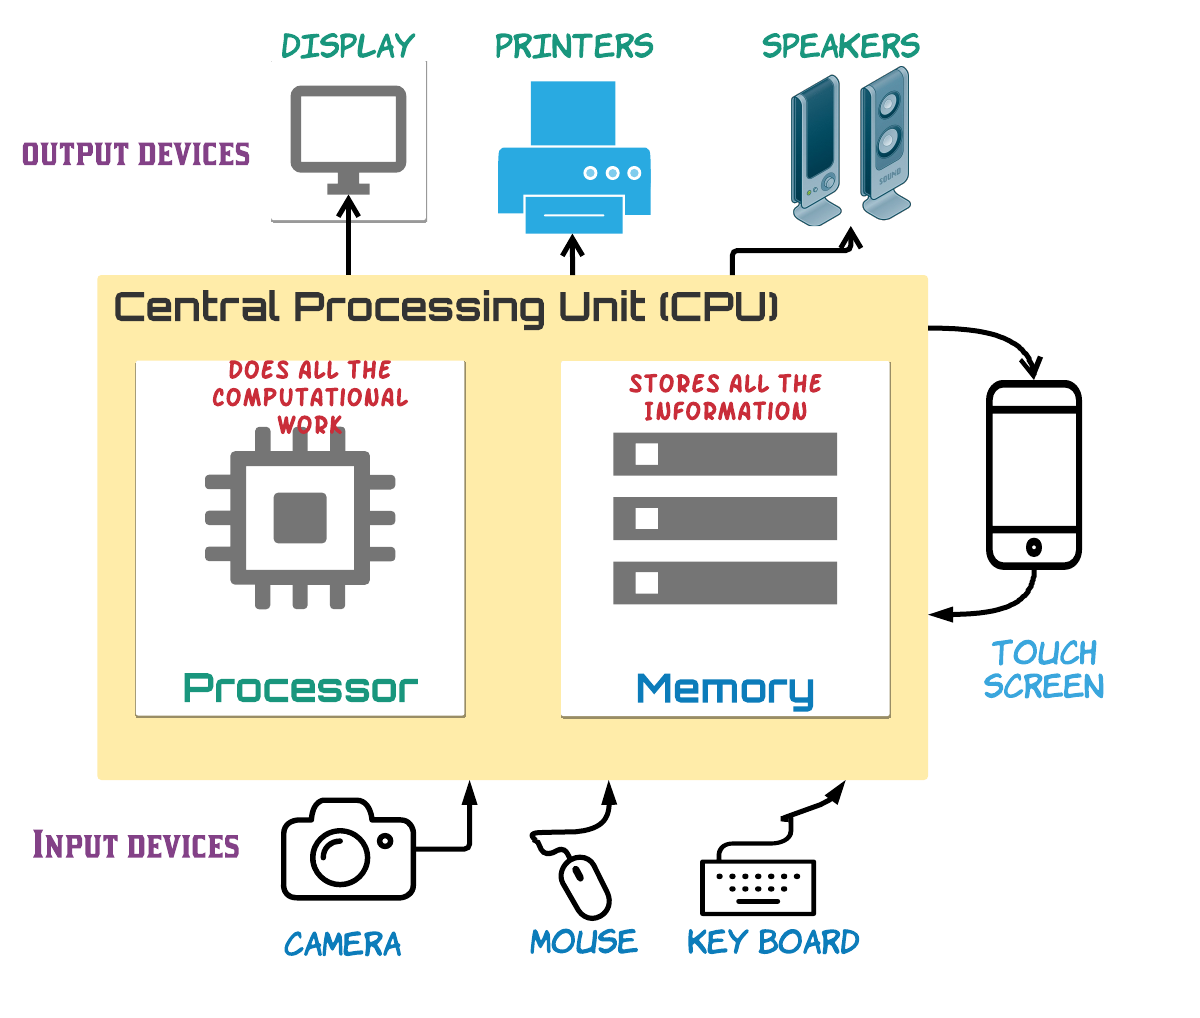
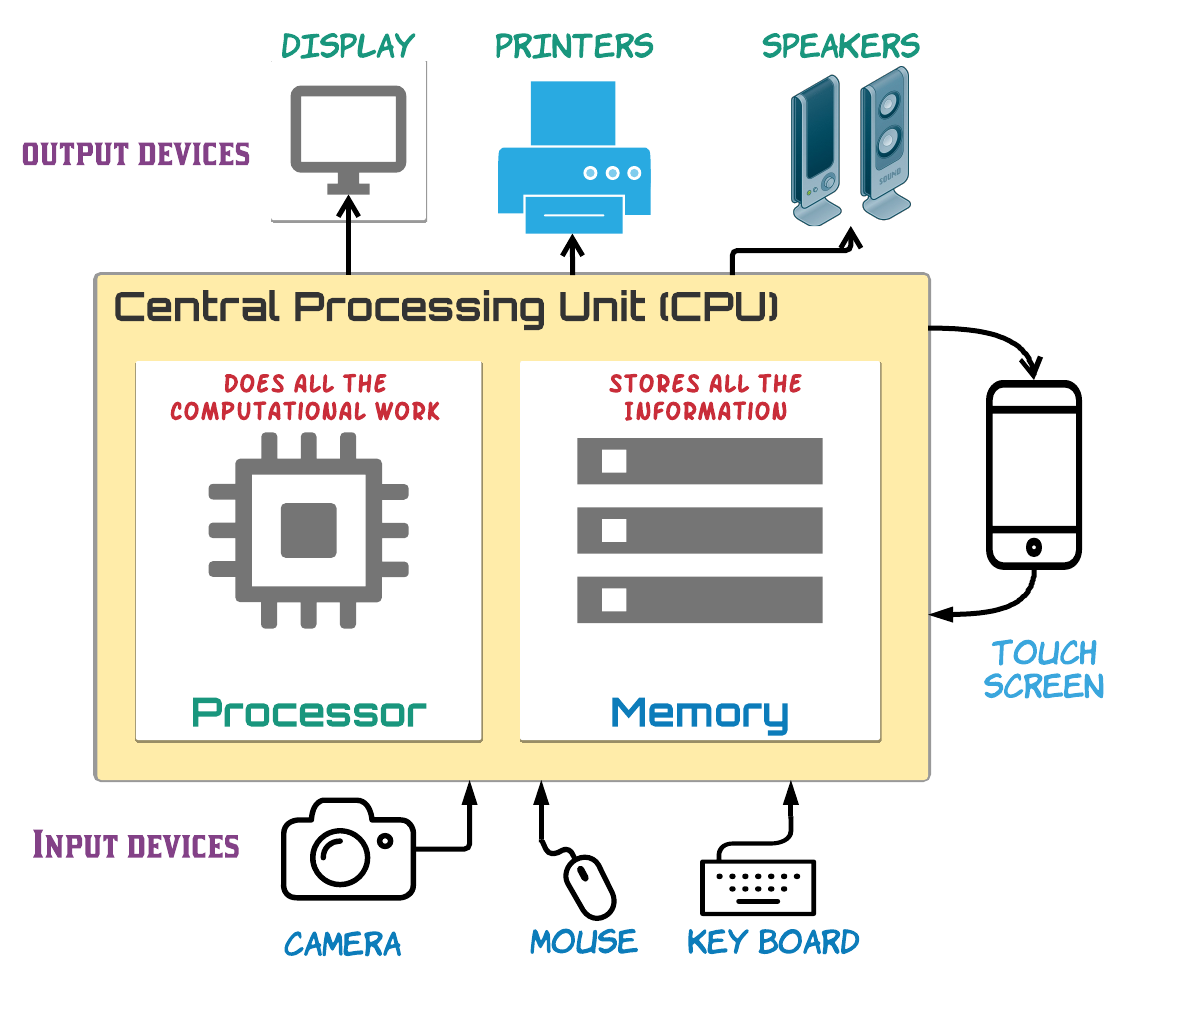
componets 2

diff --git a/PITCHME.md b/PITCHME.md
@@ -73,13 +73,25 @@ Just like billions of neurons fire in our Human brain based on visual, auditory 
 It could do anything from adding two numbers to flying an airplane.
 
 +++
-@title[Essential components of the computers]
-### Components of Computer
+@title[Components of A Computer CPU]
+### Components of A Computer CPU
 
 <img src="assets/image/computer-components3.png" alt="Components of Computer" width="500px" height="400px">
 
+Can you tell some Input and Output devices?
+
 +++
 
+### Components of A Computer with Input and Output
+<img src="assets/image/computer-components2.png" alt="Components of Computer" width="500px" height="400px">
+
+Can same device be used for both Input and Output?
++++
+
+### Components of A Computer
+<img src="assets/image/computer-components3.png" alt="Components of Computer" width="500px" height="400px">
+
+That's why touch screen devices are very easy use.
 ### A Computer has
 
 #### Processor
